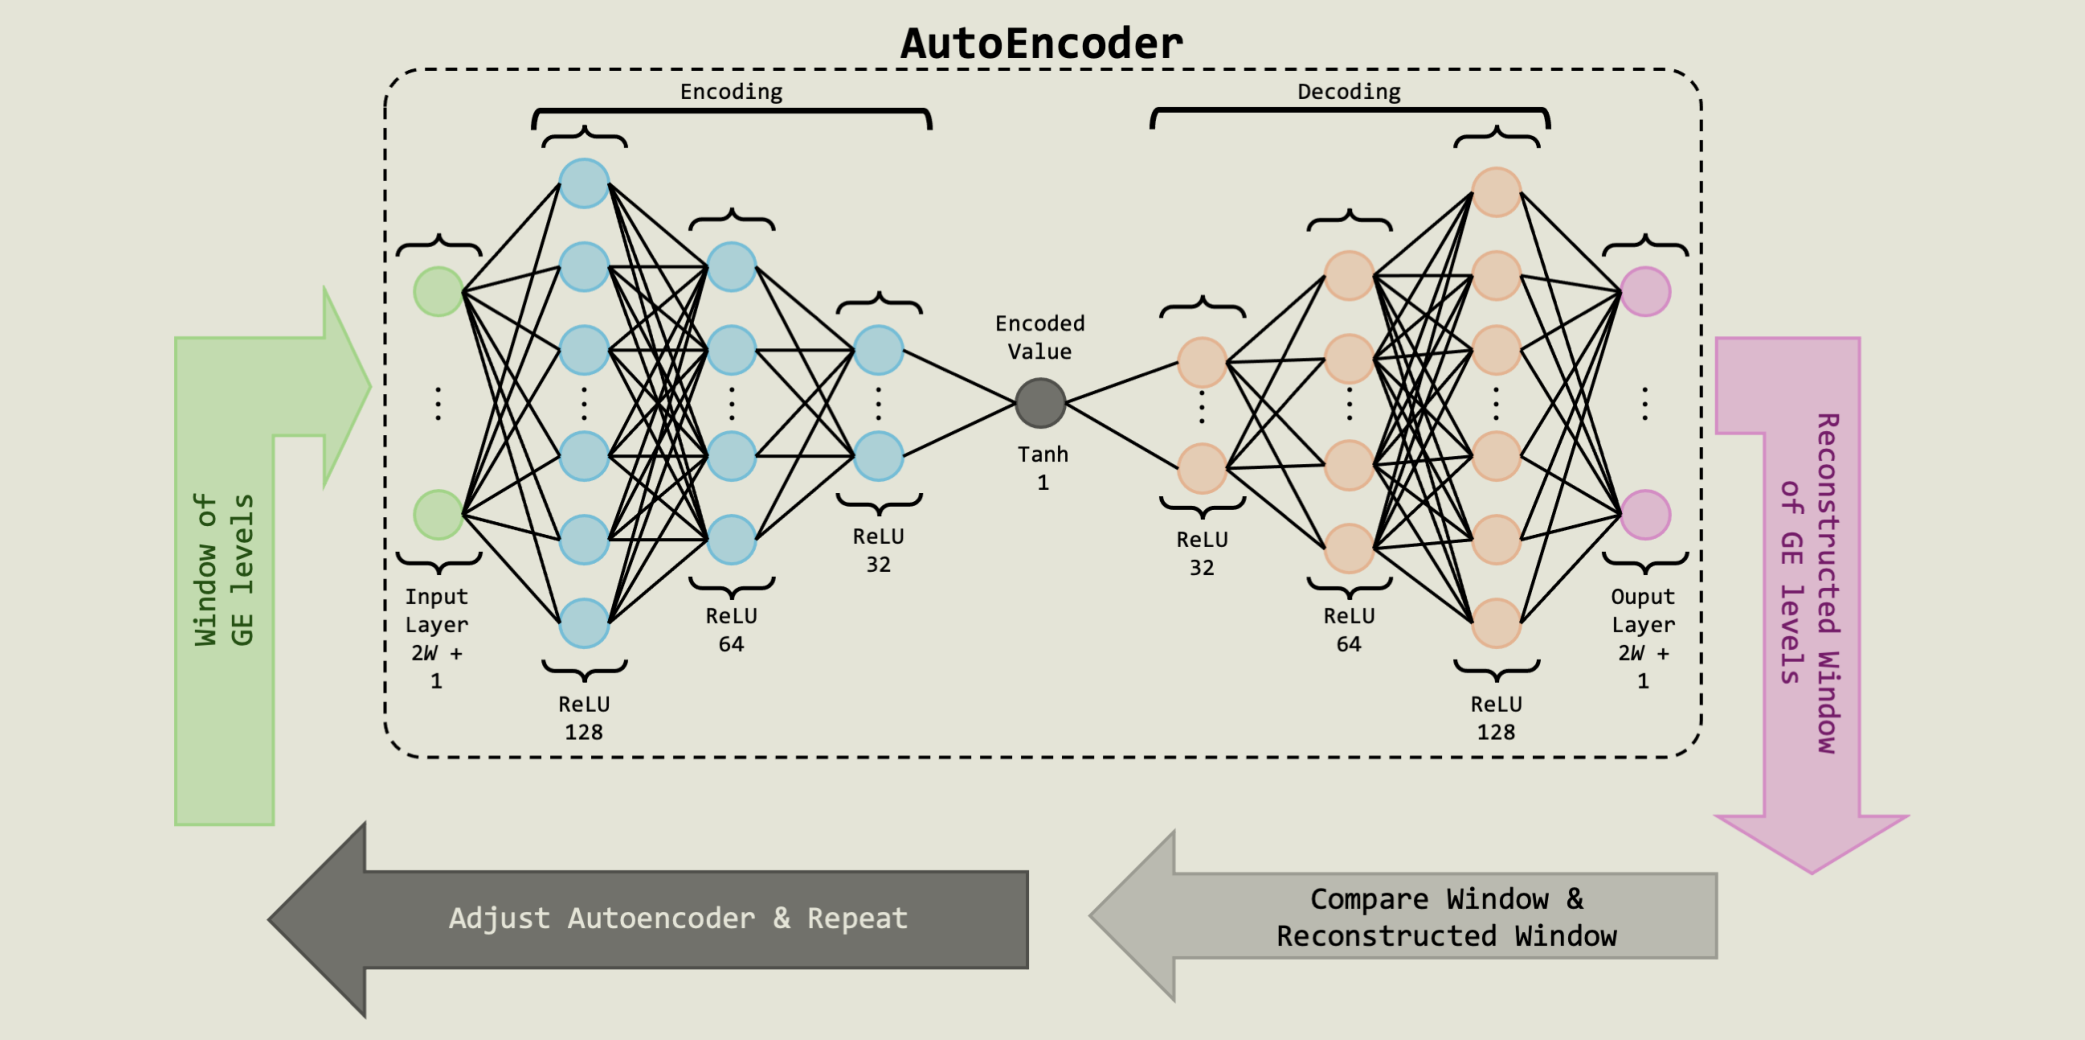
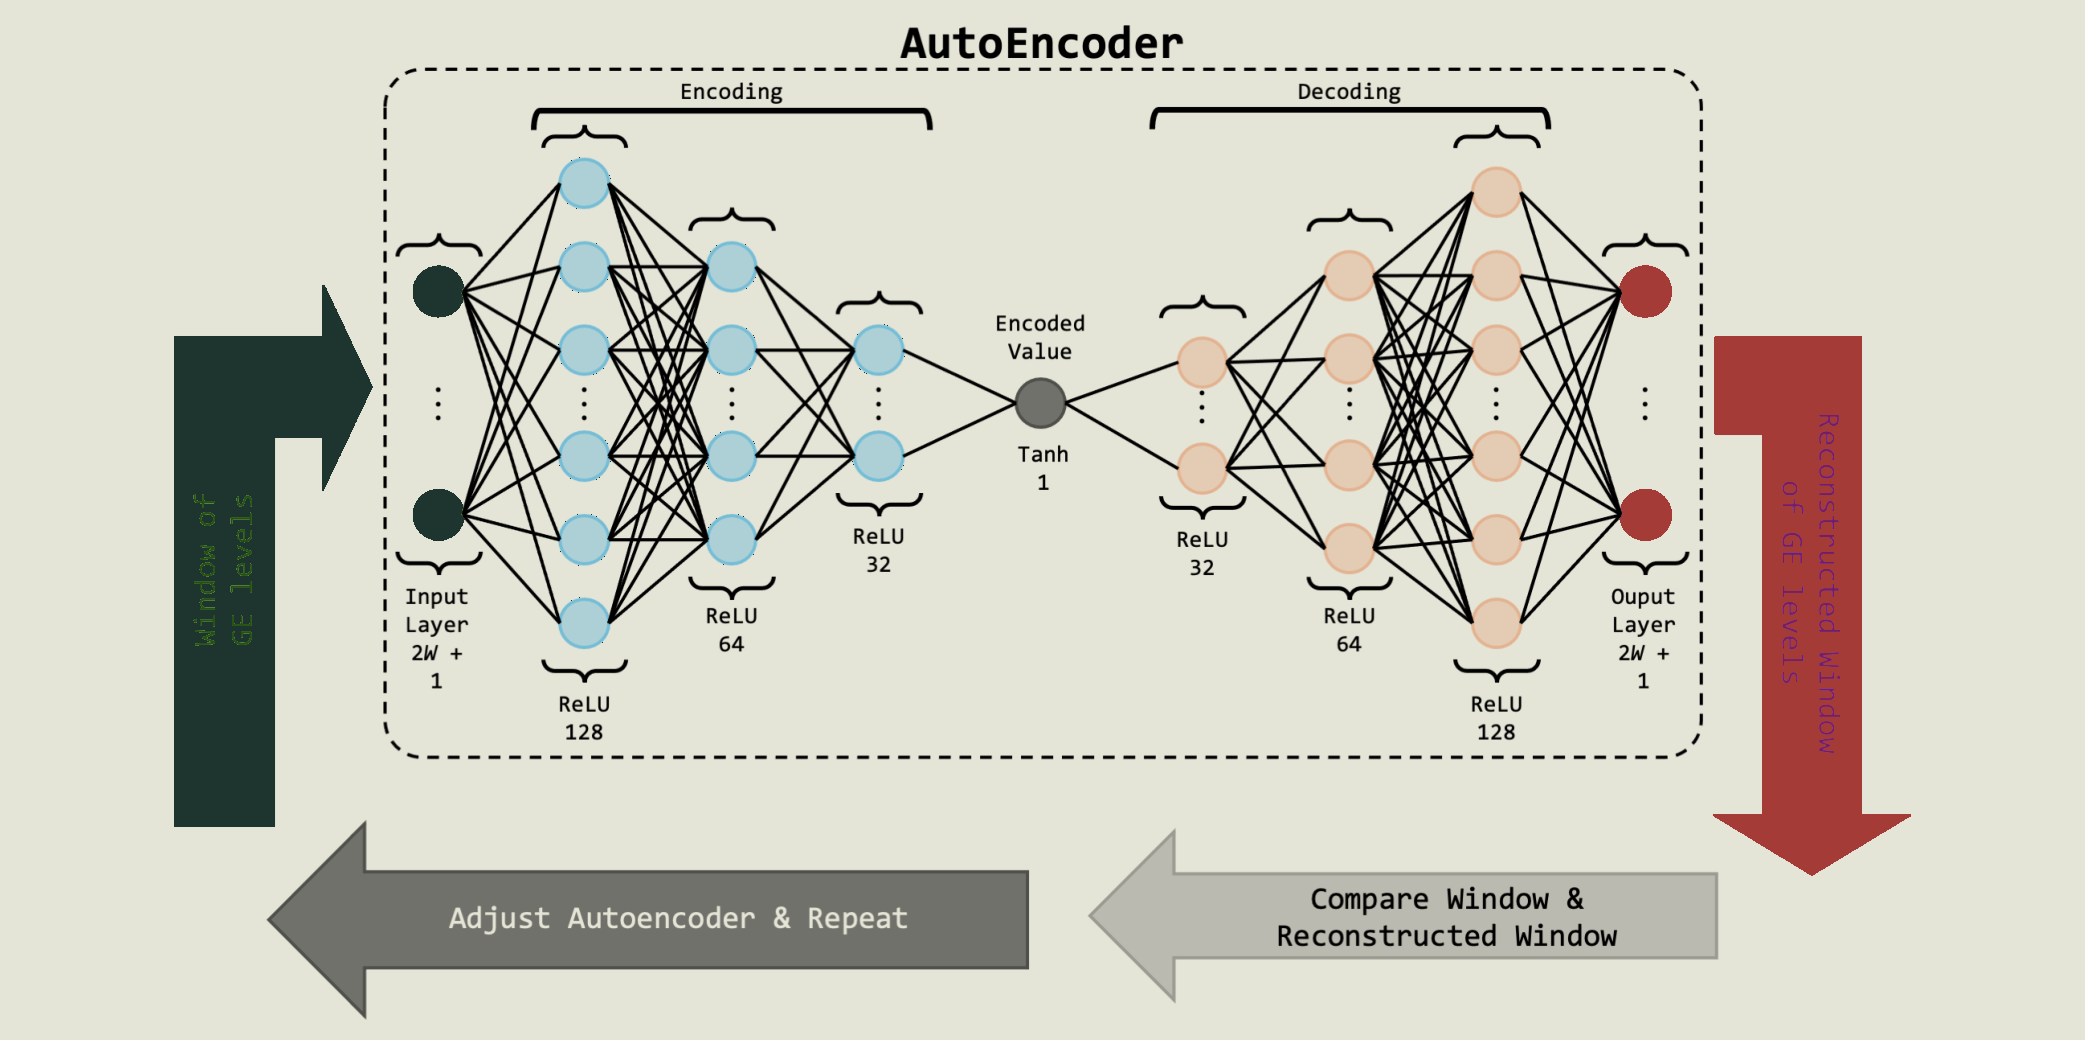
fix: tod-prediction preview arrows recoloured to the site palette
pink reconstruction arrow and its output dots -> crimson #a43b36 (the
placeholders' accent), light green window arrow and input dots -> sumi
#1E342E. hue-family masks on the composited render; flat fills take the
exact site hexes.

diff --git a/projects.js b/projects.js
@@ -133,7 +133,7 @@ window.portfolioProjects = [
       { label: "research archive (as-published pipeline)", href: "https://github.com/oleeveeuh/gr-WPI-UMASS-TOD-Prediction/tree/main/research_archive" },
     ],
     previewImage: "assets/tod-prediction-paper-ae.png",
-    previewAlt: "figure 4 of the published paper: the autoencoder architecture for windowed gene expression — an hourglass network from a relu 128/64/32 encoder through a tanh encoded value to a relu 32/64/128 decoder, with a green arrow for the incoming window of gene-expression levels, a pink arrow for the reconstructed window, and the compare-and-adjust training loop below",
+    previewAlt: "figure 4 of the published paper, recoloured to the site palette: the autoencoder architecture for windowed gene expression — an hourglass network from a relu 128/64/32 encoder through a tanh encoded value to a relu 32/64/128 decoder, with a dark green arrow for the incoming window of gene-expression levels and a crimson arrow for the reconstructed window, and the compare-and-adjust training loop below",
     technologyGroups: [
       { label: "DATA SCIENCE", skills: ["Python", "pandas", "NumPy", "Matplotlib", "R (tidyverse wrangling)", "GEO GSE71620 donor data", "235-gene circadian panel", "Excel result workbooks (openpyxl)", "find_best_models ranking", "paper-era result figures"] },
       { label: "MACHINE LEARNING", skills: ["scikit-learn", "PyTorch (skorch)", "TensorFlow (CNN variants)", "XGBoost", "autoencoder window encoding", "LSTM · CNN · MLP", "PCA · ICA · KPCA · Isomap", "min-max & log normalisation", "RandomizedSearchCV", "TimeSeriesSplit CV", "16-regressor sweep"] },
